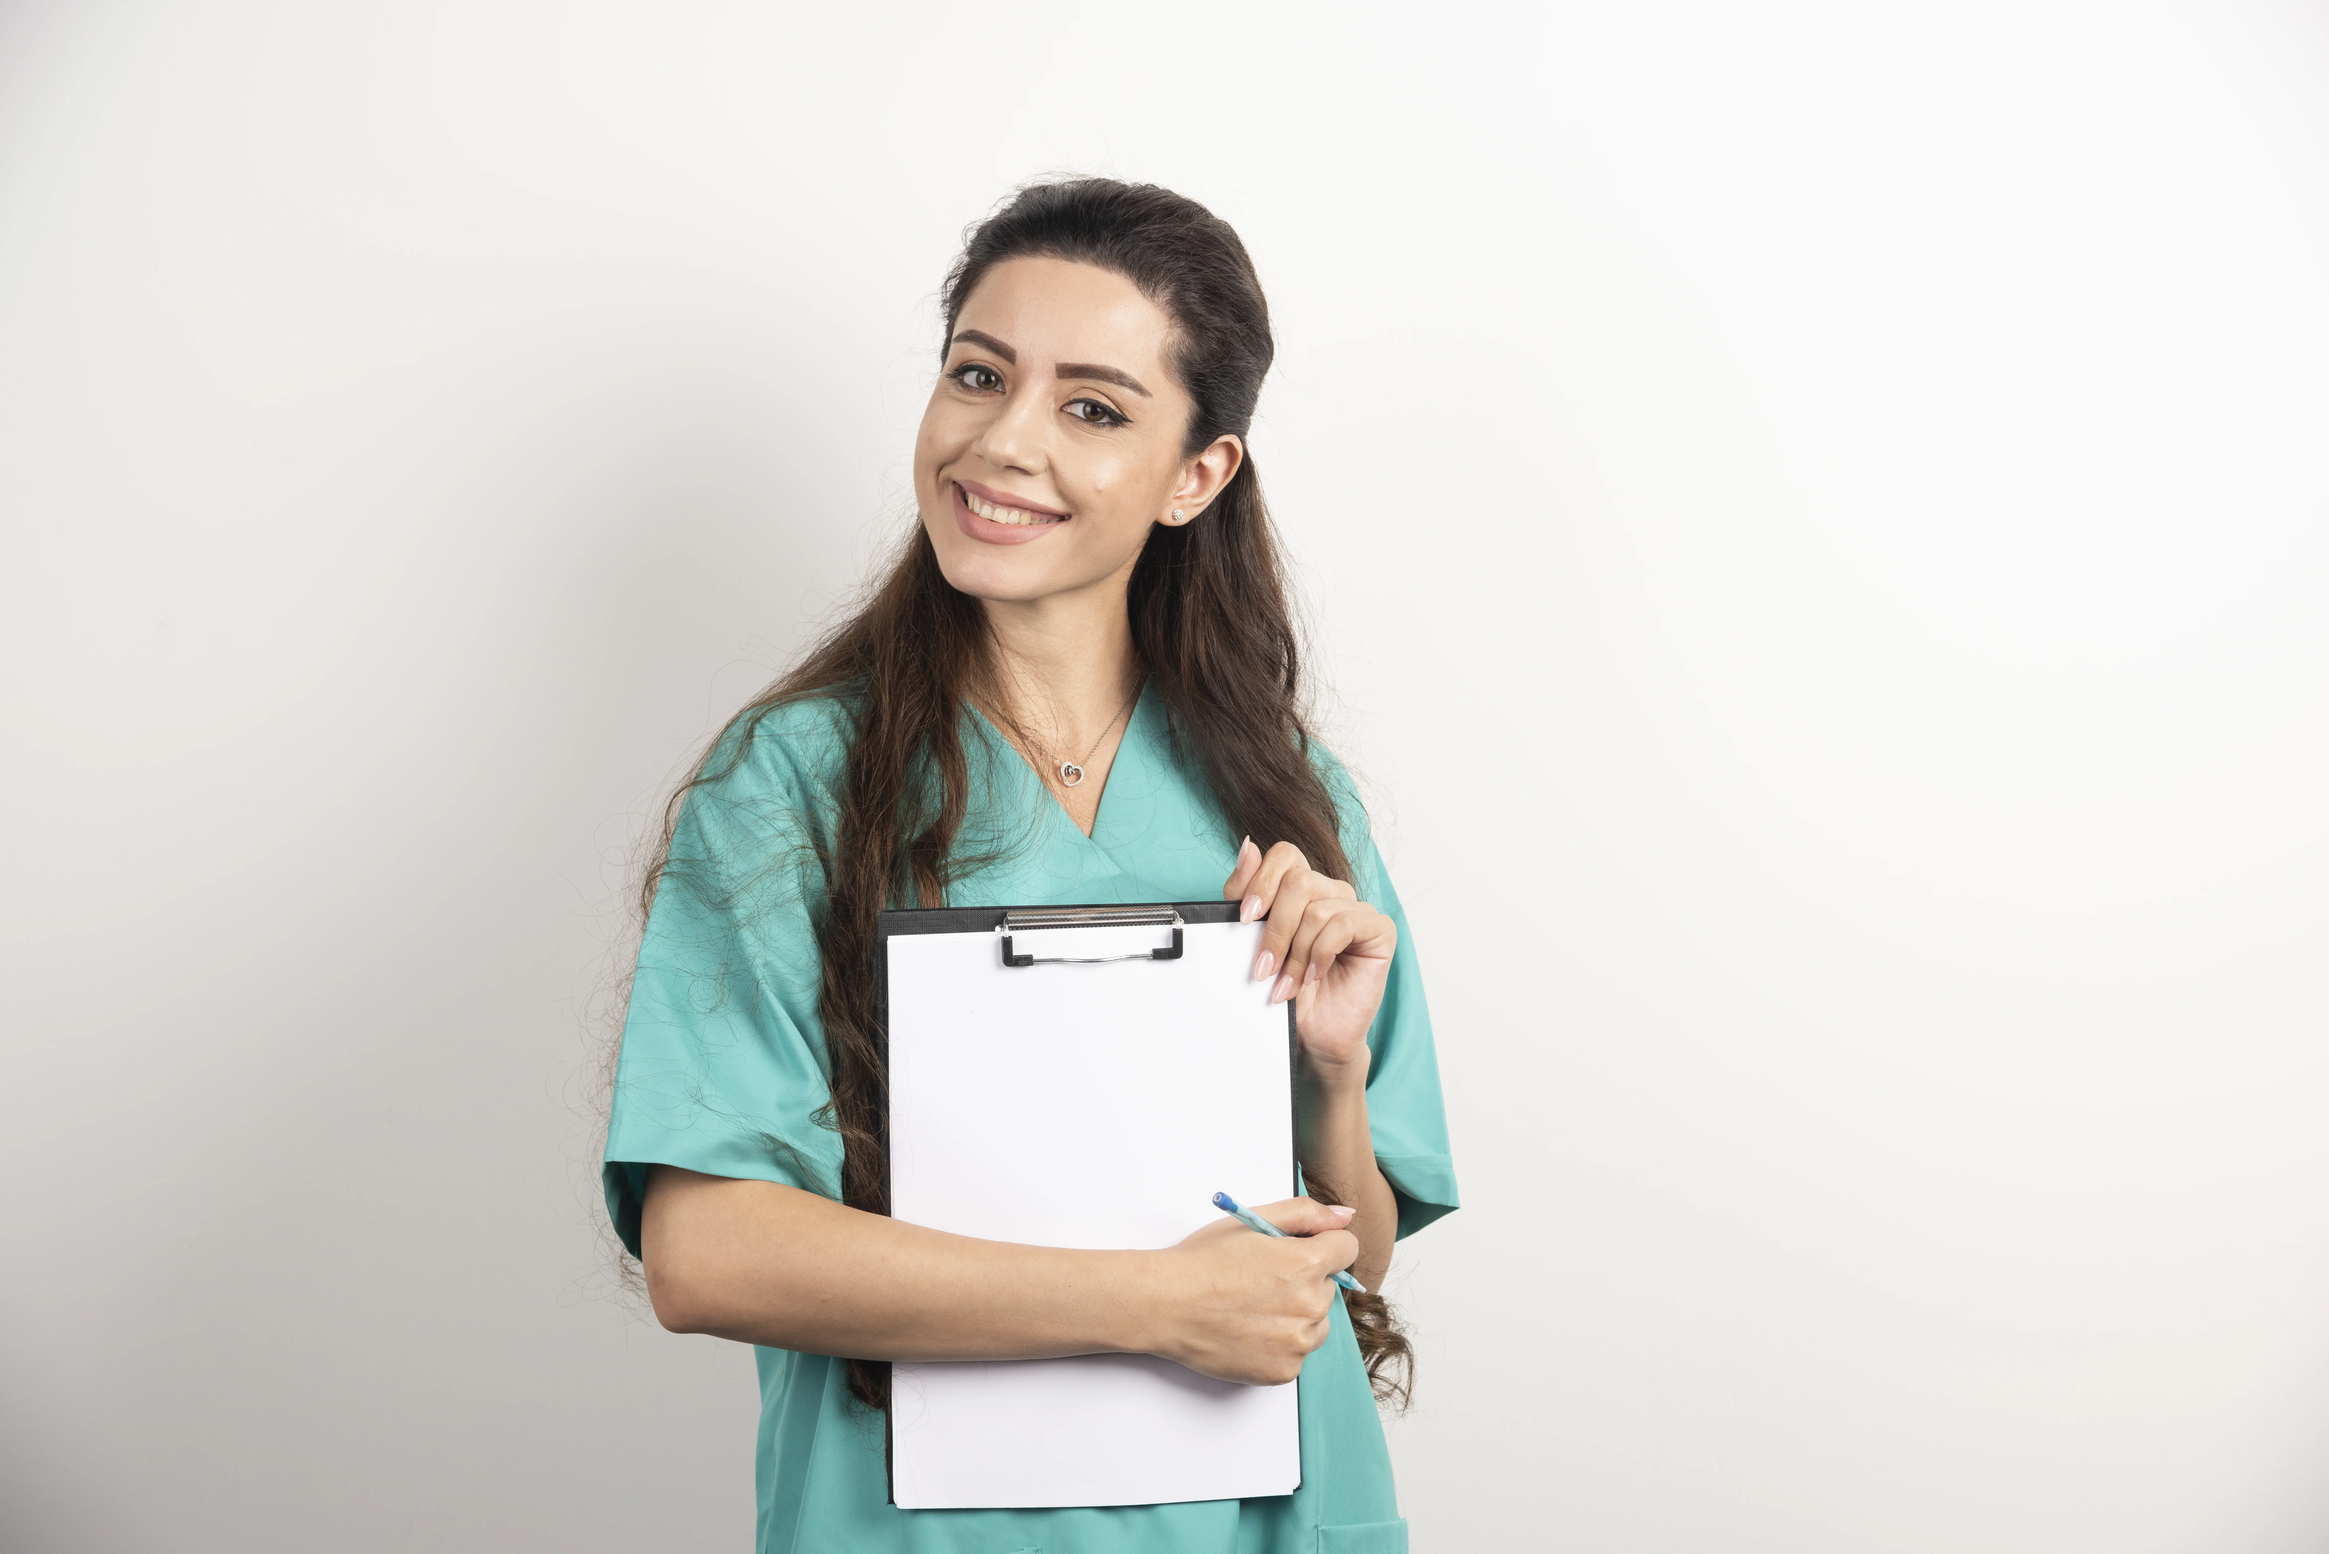
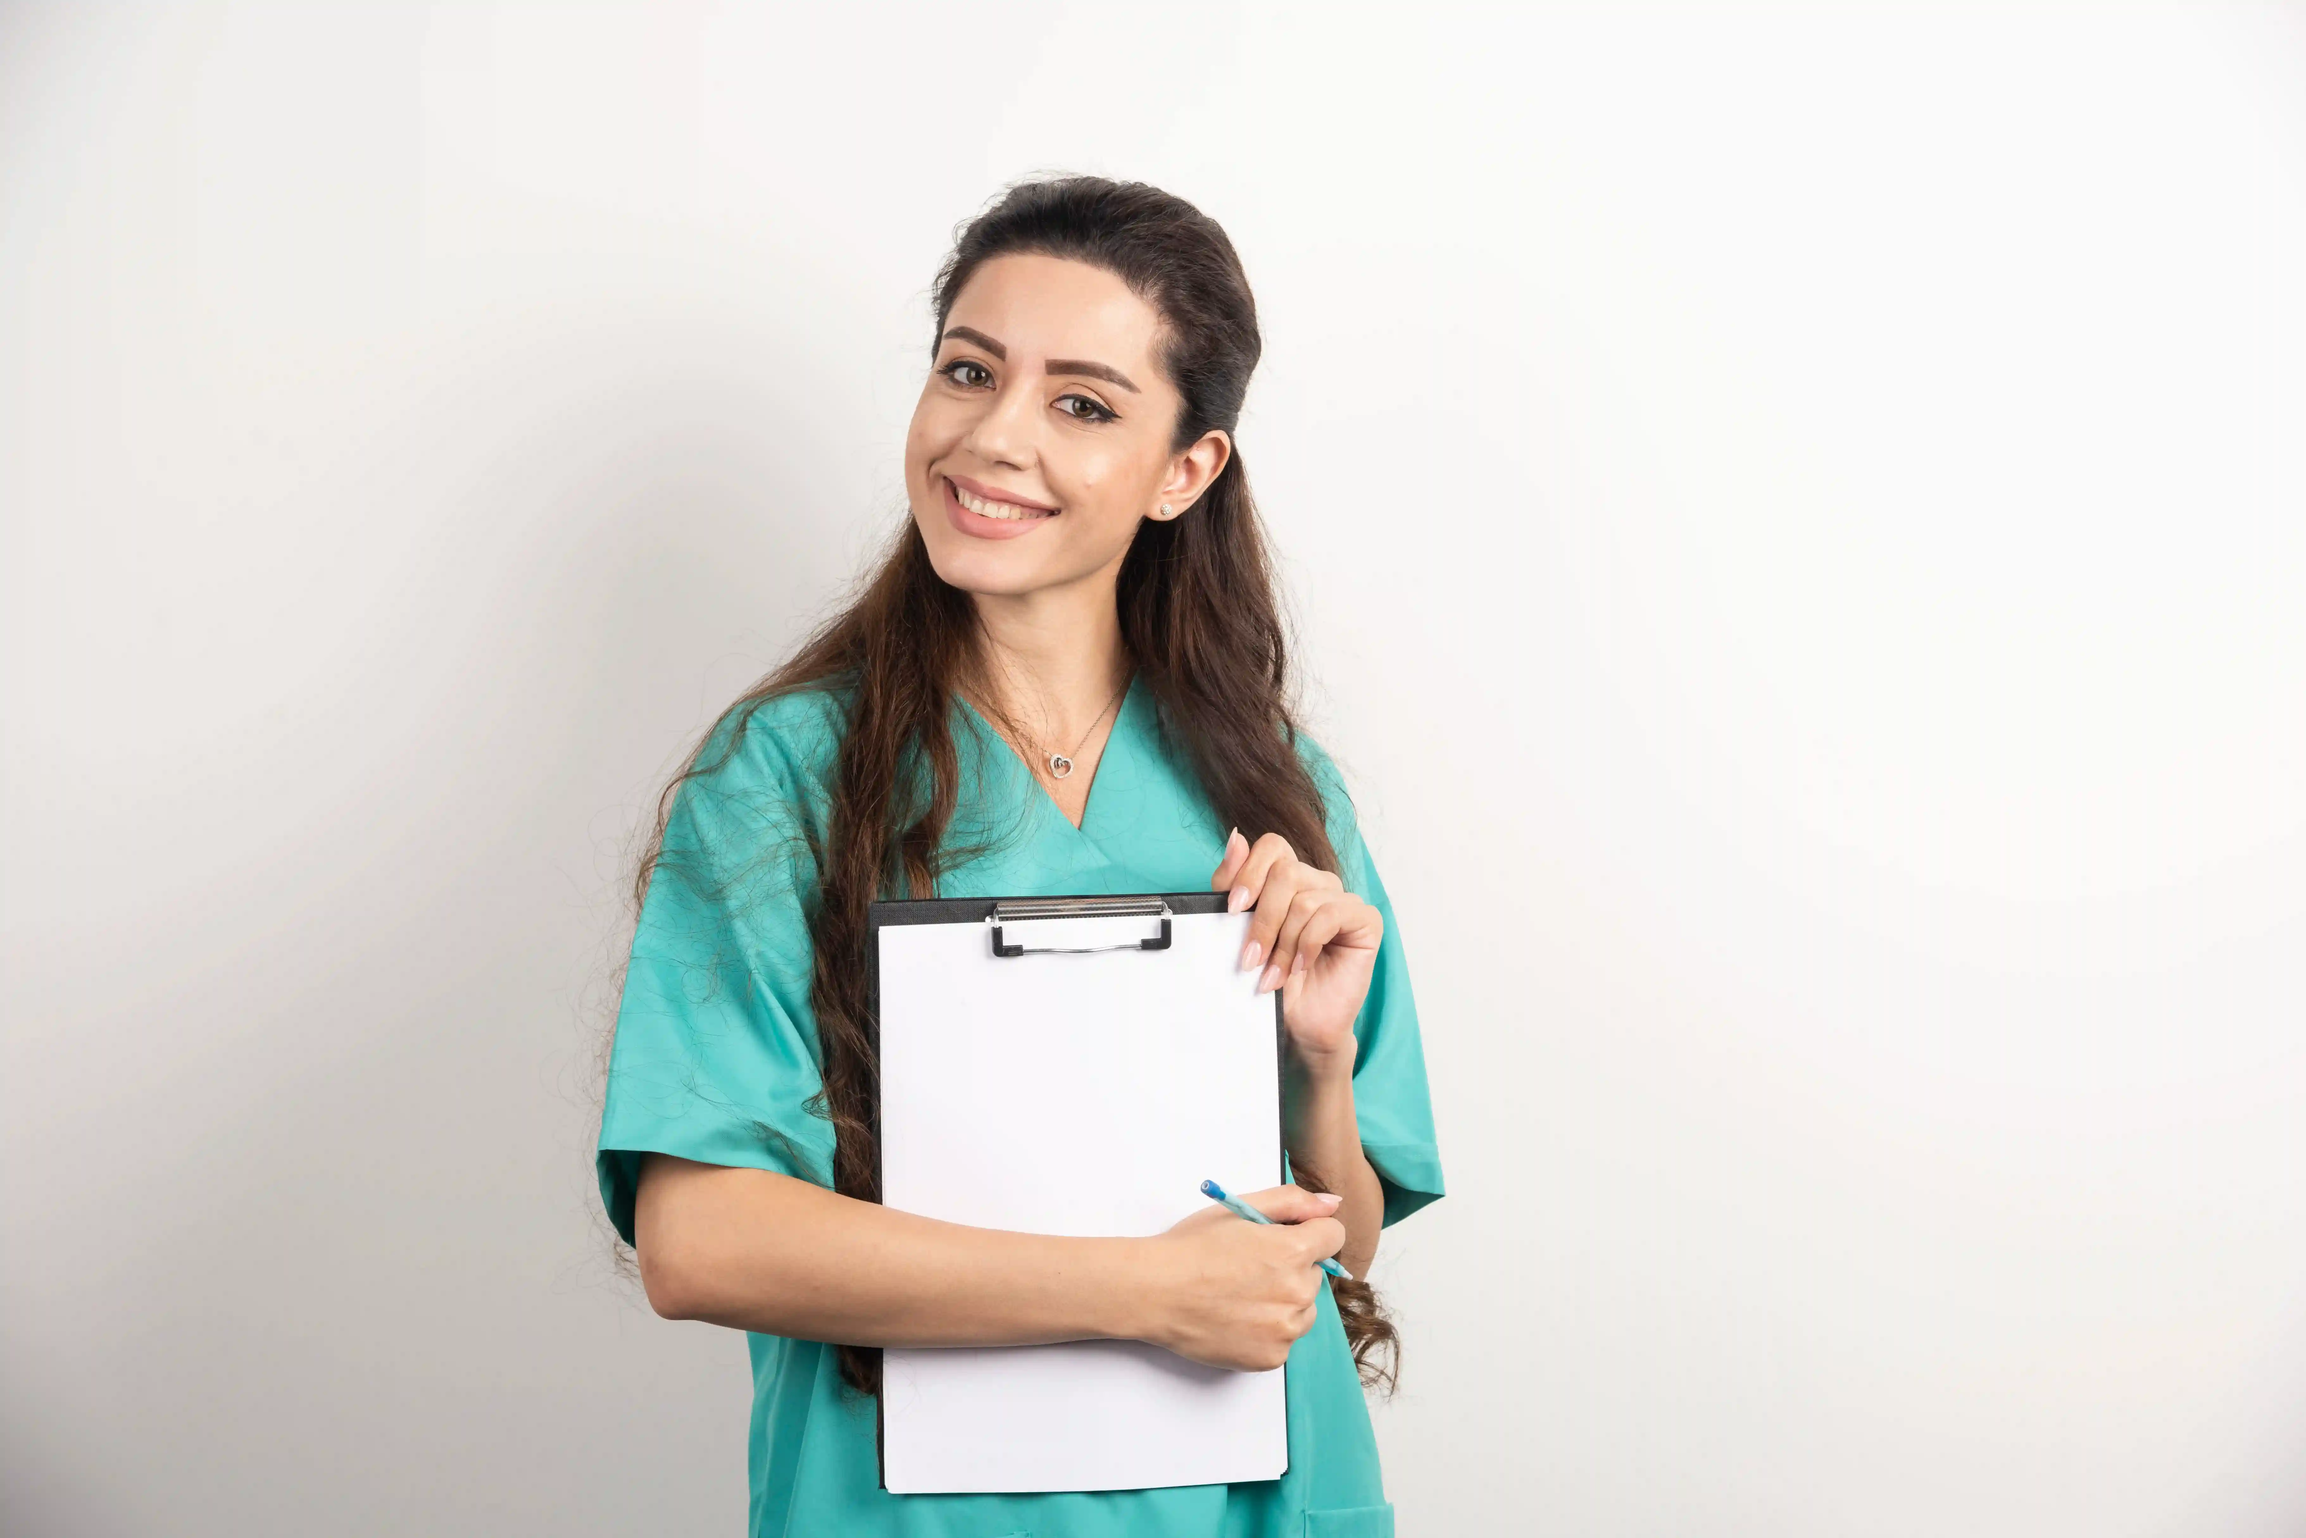
image extension webp

diff --git a/index.html b/index.html
@@ -53,9 +53,9 @@
     <main>
       <section class="hero" id="apply">
         <div class="hero__slides" aria-hidden="true">
-          <div class="hero__slide is-active" data-hero-src="public/hero/hero 1.png"></div>
-          <div class="hero__slide" data-hero-src="public/hero/hero 2.png"></div>
-          <div class="hero__slide" data-hero-src="public/hero/hero 1.png"></div>
+          <div class="hero__slide is-active" loading="lazy" data-hero-src="public/hero/hero 1.webp"></div>
+          <div class="hero__slide" loading="lazy" data-hero-src="public/hero/hero 2.webp"></div>
+          <div class="hero__slide" loading="lazy" data-hero-src="public/hero/hero 1.webp"></div>
         </div>
         <div class="hero__overlay"></div>
         <div class="container hero__content">
@@ -116,7 +116,7 @@
         </div>
         <div class="container leadership__grid">
           <article class="leader-card">
-            <img src="public/leadership/President.jpeg" alt="President" loading="lazy" />
+            <img src="public/leadership/President.webp" alt="President" loading="lazy" />
             <div class="leader-card__body">
               <span class="leader-card__role">President</span>
               <h3>Mrs. Pooja Purnaye Gorule</h3>
@@ -126,7 +126,7 @@
             </div>
           </article>
           <article class="leader-card">
-            <img src="public/leadership/Secretary.jpeg" alt="Secretary" loading="lazy" />
+              <img src="public/leadership/Secretary.webp" alt="Secretary" loading="lazy" />
             <div class="leader-card__body">
               <span class="leader-card__role">Secretary</span>
               <h3>Mr. Rajesh Gorule</h3>
@@ -308,7 +308,7 @@
       <section class="about" id="admissions">
         <div class="container about__grid">
           <div class="about__image">
-            <img class="about--image" src="public/college.png" alt="About Rajashree Shahu College of Nursing" loading="lazy" />
+            <img class="about--image" src="public/college.webp" alt="About Rajashree Shahu College of Nursing" loading="lazy" />
           </div>
           <div class="about__content">
             <span class="badge badge--light">Admissions Open</span>
@@ -374,7 +374,7 @@
                 </text>
               </svg>
             </div>
-            <img src="public/logo.png" alt="Rajashree Shahu College of Nursing" loading="lazy" />
+            <img src="public/logo.webp" alt="Rajashree Shahu College of Nursing" loading="lazy" />
           </div>
         </div>
       </section>

diff --git a/courses.html b/courses.html
@@ -66,7 +66,7 @@
         <div class="container">
           <div class="course-layout">
             <div class="course-image">
-              <img src="public/courses/bsc.webp" alt="B.Sc. Nursing Student" />
+              <img src="public/courses/bsc.webp" alt="B.Sc. Nursing Student" loading="lazy" decoding="async" />
             </div>
             <div class="course-content">
                 <h2>Bachelor of Science in Nursing (B.Sc.)</h2>
@@ -164,7 +164,7 @@
         <div class="container">
           <div class="course-layout">
             <div class="course-image">
-              <img src="public/courses/pbbsc.webp" alt="P.B.Sc. Nursing Student" />
+              <img src="public/courses/pbbsc.webp" alt="P.B.Sc. Nursing Student" loading="lazy" decoding="async" />
             </div>
             <div class="course-content">
                 <h2>Post Basic B.Sc. Nursing (P.B.Sc.)</h2>
@@ -231,7 +231,7 @@
         <div class="container">
           <div class="course-layout">
             <div class="course-image">
-              <img src="public/courses/gnm.webp" alt="GNM Nursing Student" />
+              <img src="public/courses/gnm.webp" alt="GNM Nursing Student" loading="lazy" decoding="async" />
             </div>
             <div class="course-content">
               <h2>General Nursing and Midwifery (GNM)</h2>

diff --git a/assets/style.css b/assets/style.css
@@ -18,6 +18,25 @@
   font-size: 1rem;
   margin-right: 0.5rem;
 }
+/* 1. Force GPU rendering for smoother scroll */
+* {
+  -webkit-font-smoothing: antialiased;
+  -moz-osx-font-smoothing: grayscale;
+}
+
+/* 2. Optimize animations & transitions */
+.course-layout, .course-image img, .navbar, section {
+  will-change: transform, opacity;
+  backface-visibility: hidden;
+  transform: translateZ(0);
+}
+
+/* 3. Reduce expensive effects during scroll */
+.course-layout {
+  transition: opacity 0.3s ease, transform 0.3s ease;
+}
+
+
 .course-cards {
   padding: clamp(3rem, 5vw, 5rem) 0;
 }
@@ -94,6 +113,8 @@
 .course-section {
   padding: clamp(4rem, 6vw, 6rem) 0;
   background: var(--white);
+  will-change: auto;
+  contain: layout style;
 }
 
 .course-section:nth-child(odd) {
@@ -105,6 +126,7 @@
   grid-template-columns: 1fr 1.2fr;
   gap: clamp(3rem, 5vw, 5rem);
   align-items: center;
+  contain: layout;
 }
 
 .course-section--reverse .course-layout {
@@ -131,11 +153,12 @@
   height: 100%;
   object-fit: cover;
   min-height: 500px;
-  transition: transform 0.3s ease;
+  transition: opacity 0.2s ease;
+  will-change: auto;
 }
 
 .course-image:hover img {
-  transform: scale(1.05);
+  opacity: 0.9;
 }
 
 .course-content h2 {

diff --git a/about.html b/about.html
@@ -190,7 +190,7 @@ Discover a place where knowledge meets compassion, and dreams become careers.
           <p>Meet the dedicated professionals who guide our institution towards excellence</p>
           <div class="leadership__grid">
             <div class="leader-card">
-              <img src="public/leadership/President.jpeg" alt="President" loading="lazy" />
+              <img src="public/leadership/President.webp" alt="President" loading="lazy" />
             <div class="leader-card__content">
               <h3>Mrs. Pooja Purnaye Gorule</h3>
               <p class="leader-role">President</p>
@@ -200,7 +200,7 @@ Discover a place where knowledge meets compassion, and dreams become careers.
             </div>
           </div>
           <div class="leader-card">
-            <img src="public/leadership/Secretary.jpeg" alt="Secretary" loading="lazy" />
+            <img src="public/leadership/Secretary.webp" alt="Secretary" loading="lazy" />
             <div class="leader-card__content">
               <h3>Mr. Rajesh Gorule</h3>
               <p class="leader-role">Secretary</p>
